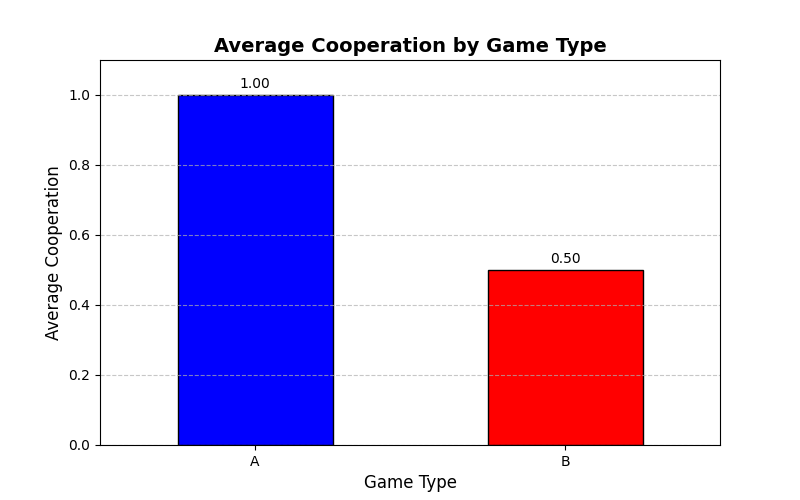
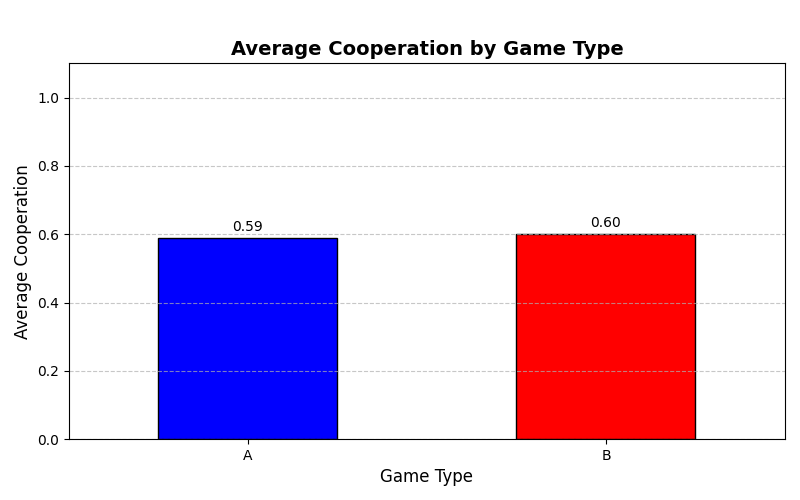
before p 2

diff --git a/VR_T1a_part2/PaymentAndDebrief.html b/VR_T1a_part2/PaymentAndDebrief.html
@@ -72,6 +72,5 @@
         <p>Thank you for your participation!</p>
     </div>
 
-    <a class="btn-finish" href="https://www.google.com">Finish</a>
-</div>
+<a class="btn-finish" href="{{ session.prolific_completion_url }}">Finish</a></div>
 {% endblock content %}

diff --git a/analysis.py b/analysis.py
@@ -3,7 +3,7 @@ import matplotlib.pyplot as plt
 import matplotlib.patches as mpatches
 
 # Load your CSV file
-file_path = "/Users/theo/Downloads/VR_T1a_part2_2025-06-24 (3).csv"
+file_path = "/Users/theo/Downloads/VR_T1a_part2_2025-06-24 (4).csv"
 df = pd.read_csv(file_path)
 
 # Step 1: Keep only rows where player.played == 1
@@ -23,18 +23,17 @@ plt.figure(figsize=(8, 5))
 bar_data = df.groupby('group.current_game')['Cooperated'].mean()
 bars = bar_data.plot(kind='bar', color=['blue', 'red'], edgecolor='black')
 
-# Styling for bar chart
 plt.xlabel('Game Type', fontsize=12)
 plt.ylabel('Average Cooperation', fontsize=12)
 plt.title('Average Cooperation by Game Type', fontsize=14, weight='bold')
 plt.xticks(rotation=0)
-plt.ylim(0, 1)
+plt.ylim(0, 1.1)
 plt.grid(axis='y', linestyle='--', alpha=0.7)
 for i in bars.patches:
     bars.annotate(f"{i.get_height():.2f}",
                   (i.get_x() + i.get_width() / 2, i.get_height() + 0.02),
                   ha='center', fontsize=10)
-plt.ylim(0, 1.1)  # gives headroom above the highest bar
+plt.tight_layout(rect=[0, 0, 1, 0.95])
 plt.savefig("average_cooperation_by_game.png")
 plt.show()
 
@@ -51,37 +50,48 @@ plt.plot(overall_mean_by_round['subsession.round_number'],
          overall_mean_by_round['Cooperated'],
          label='Overall Mean Cooperation', color='gray', linewidth=2, zorder=1)
 
-# Add dots on the line, colored by group.current_game
 for _, row in mean_by_round_game.iterrows():
     color = 'blue' if row['group.current_game'] == 'A' else 'red'
     plt.scatter(int(row['subsession.round_number']), row['Cooperated'],
                 color=color, s=100, edgecolors='black', linewidth=0.8, zorder=2)
 
-# Custom legend
 blue_patch = mpatches.Patch(color='blue', label='Safe Game (A)')
 red_patch = mpatches.Patch(color='red', label='Risky Game (B)')
 gray_line = plt.Line2D([], [], color='gray', label='Overall Mean Cooperation', linewidth=2)
 plt.legend(handles=[blue_patch, red_patch, gray_line], fontsize=11, loc='lower right')
 
-# Styling for line chart
 plt.xlabel('Round Number', fontsize=12)
 plt.ylabel('Mean Cooperation', fontsize=12)
 plt.title('Mean Cooperation per Round (Colored by Game)', fontsize=14, weight='bold')
 plt.xticks(overall_mean_by_round['subsession.round_number'], fontsize=10)
 plt.yticks(fontsize=10)
-plt.ylim(0, 1)
+plt.ylim(0, 1.05)
 plt.grid(True, linestyle='--', alpha=0.6)
-plt.ylim(0, 1.1)
+plt.tight_layout(rect=[0, 0, 1, 0.95])
 plt.savefig("mean_cooperation_by_round_and_game.png")
 plt.show()
 
-# Step 8: Output and save averages
+# Step 8: Print overall averages
 print(f"\nMean Cooperated: {mean_cooperated:.3f}")
 print(f"Mean Chose Risk: {mean_chose_risk:.3f}")
 
-# Save overall means to CSV
-overall_summary = pd.DataFrame({
+# Step 9: Create summary tables
+mean_coop_by_game = df.groupby('group.current_game')['Cooperated'].mean().reset_index()
+mean_coop_by_game_vote = df.groupby(['group.current_game', 'player.vote'])['Cooperated'].mean().reset_index()
+mean_vote = pd.DataFrame({
+    'Metric': ['Chose_Risk'],
+    'Mean': [mean_chose_risk]
+})
+overall_means = pd.DataFrame({
     'Metric': ['Cooperated', 'Chose_Risk'],
     'Mean': [mean_cooperated, mean_chose_risk]
 })
-overall_summary.to_csv("overall_summary.csv", index=False)
+
+# Step 10: Export all tables to a single Excel file
+with pd.ExcelWriter("summary_analysis.xlsx") as writer:
+    overall_means.to_excel(writer, sheet_name='Overall Averages', index=False)
+    mean_coop_by_game.to_excel(writer, sheet_name='Mean Coop by Game', index=False)
+    mean_coop_by_game_vote.to_excel(writer, sheet_name='Mean Coop by Game+Vote', index=False)
+    mean_vote.to_excel(writer, sheet_name='Mean Vote', index=False)
+
+print("\nAll tables saved to 'summary_analysis.xlsx'.")

diff --git a/VR_T1a_part1/__init__.py b/VR_T1a_part1/__init__.py
@@ -11,7 +11,7 @@ class Constants(BaseConstants):
     name_in_url = 'cooperation_risk_pre'
     players_per_group = None
     num_rounds = 100    # Maximum rounds; experiment will end early once the lottery triggers.
-    min_rounds = 20     # Must play at least 20 rounds before the lottery may end the game.
+    min_rounds = 1     # Must play at least 20 rounds before the lottery may end the game.
     # Payoff matrices:
     matrix_A = {
         ('C', 'C'): (5, 5),

diff --git a/VR_T1a_part2/__init__.py b/VR_T1a_part2/__init__.py
@@ -12,7 +12,7 @@ class Constants(BaseConstants):
     name_in_url = 'cooperation_risk_main'
     players_per_group = 2
     num_rounds = 100    # Maximum rounds; experiment will end early once the lottery triggers.
-    min_rounds = 20     # Must play at least 20 rounds before the lottery may end the game.
+    min_rounds = 1     # Must play at least 20 rounds before the lottery may end the game.
     # Payoff matrices:
     matrix_A = {
         ('C', 'C'): (5, 5),
